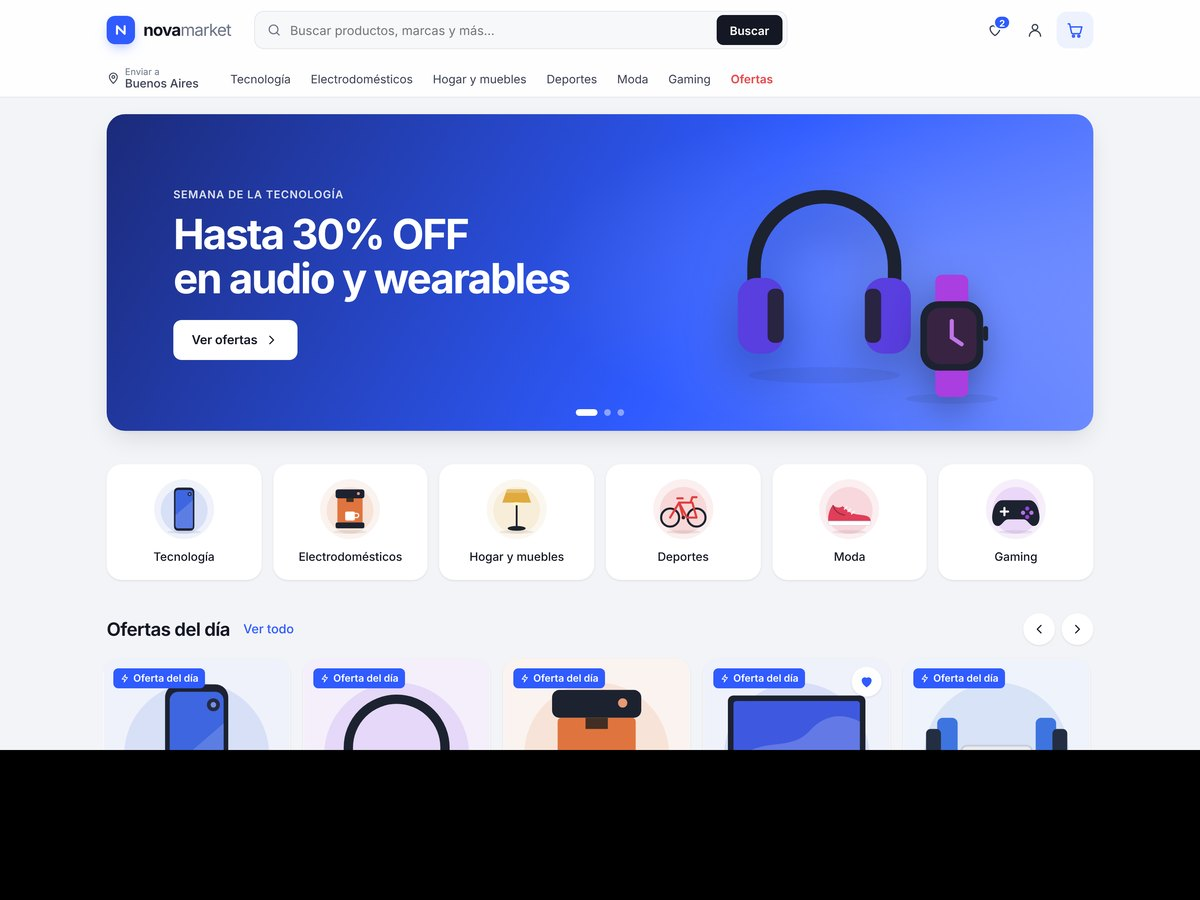
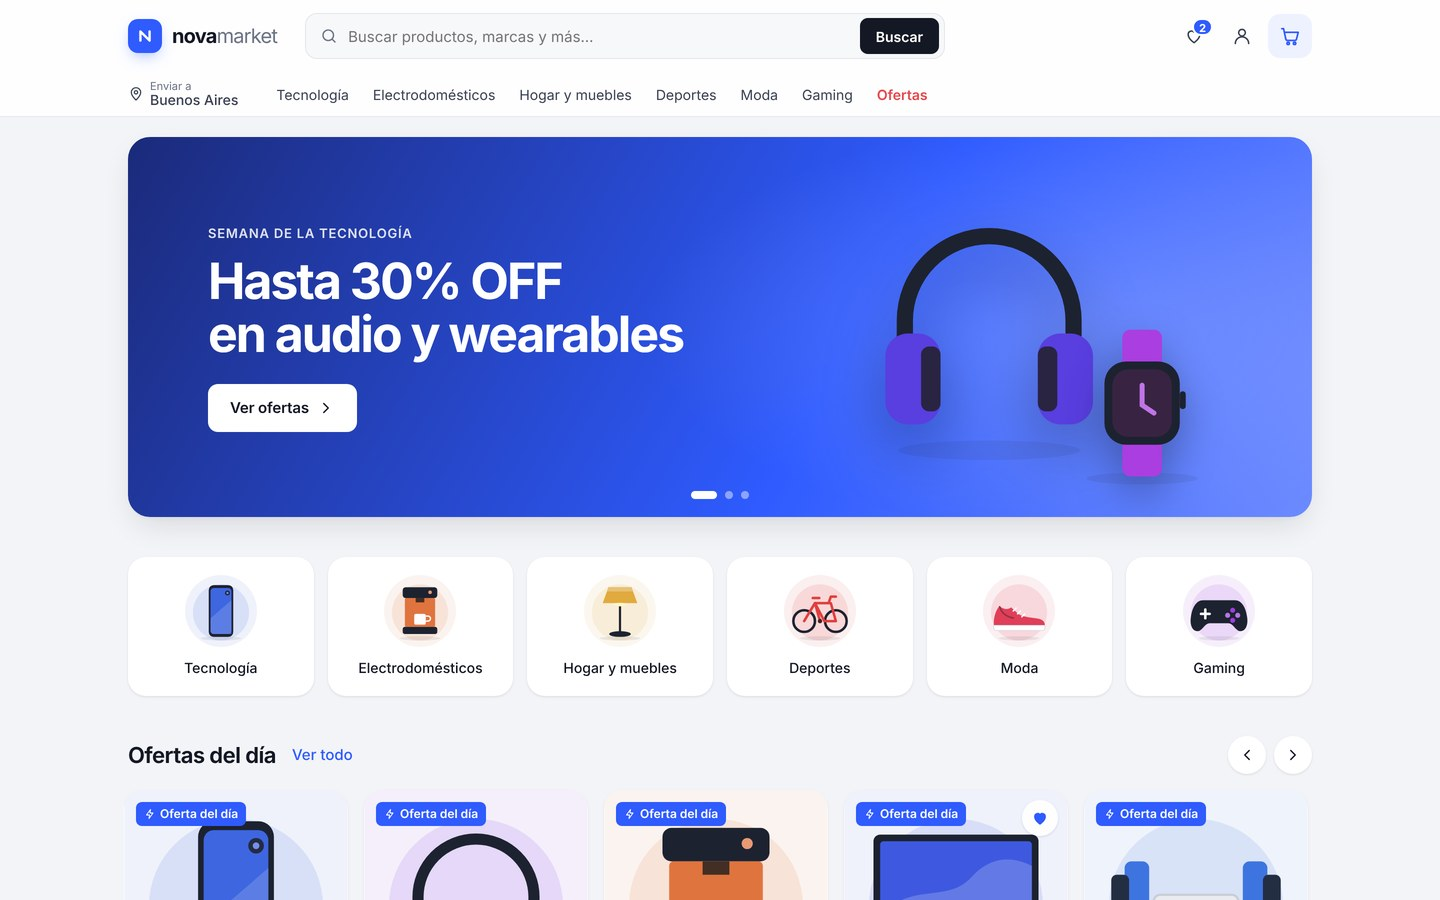
Add Nova Bank, remove Henry Bank and Back to the 90s

diff --git a/src/content.js b/src/content.js
@@ -21,8 +21,7 @@ export const stack = {
 
 const projectsBase = [
   { id: 'novamarket', repo: 'https://github.com/cheloxnz/nova-market', demo: 'https://cheloxnz.github.io/nova-market/', image: '/projects/nova-market.jpg', tech: ['Vue 3', 'Vue Router', 'Pinia', 'Vite'], hue: 228 },
-  { id: 'ecommerce', repo: 'https://github.com/cheloxnz/Ecommerce-Tienda', tech: ['React', 'Redux', 'Node', 'Express', 'Passport', 'PostgreSQL'], hue: 72 },
-  { id: 'wallet', repo: 'https://github.com/cheloxnz/Proyecto-Billetera-HB', tech: ['React Native', 'Redux', 'Node', 'Express', 'PostgreSQL'], hue: 190 },
+  { id: 'novabank', repo: 'https://github.com/cheloxnz/nova-bank', demo: 'https://cheloxnz.github.io/nova-bank/', image: '/projects/nova-bank.jpg', imagePos: 'center', tech: ['Vue 3', 'Pinia', 'PWA', 'Vite'], hue: 250 },
   { id: 'medical', repo: 'https://github.com/cheloxnz/app-medical', tech: ['Vue', 'Vuetify'], hue: 150 },
   { id: 'tsfull', repo: 'https://github.com/cheloxnz/typescript-node-react', tech: ['TypeScript', 'Node', 'Express', 'MongoDB', 'React'], hue: 260 },
   { id: 'restapi', repo: 'https://github.com/cheloxnz/node-js-mysql-rest-api', tech: ['Node', 'Express', 'MySQL'], hue: 20 },
@@ -106,9 +105,8 @@ const es = {
     viewDemo: 'Ver demo',
     more: 'Más proyectos en GitHub',
     items: {
+      novabank: { title: 'Nova Bank', type: 'Fintech · Mobile · PWA', desc: 'App fintech mobile instalable: saldo y movimientos, transferencias en 3 pasos, tarjeta virtual con congelamiento y límites, y estadísticas de gastos.' },
       novamarket: { title: 'Nova Market', type: 'E-commerce · Template', desc: 'Template de marketplace con búsqueda con autocompletado, filtros, ficha de producto, carrito, favoritos y checkout en 3 pasos.' },
-      ecommerce: { title: 'Back to the 90\'s', type: 'E-commerce', desc: 'Tienda online de merchandising noventoso con carrito, autenticación OAuth y panel de administración.' },
-      wallet: { title: 'Henry Bank', type: 'Fintech · Mobile', desc: 'Billetera virtual mobile: cuentas, transferencias y movimientos, con backend propio y autenticación.' },
       medical: { title: 'App Medical', type: 'Health · SPA', desc: 'Aplicación de gestión médica construida con Vue y Vuetify, con foco en una UI clara y usable.' },
       tsfull: { title: 'TS Full Stack', type: 'Full Stack', desc: 'Aplicación full stack tipada de punta a punta: Node, Express, Passport y MongoDB Atlas con frontend en React.' },
       restapi: { title: 'Node MySQL API', type: 'Backend', desc: 'API REST con Node, Express y MySQL: rutas CRUD, manejo de errores y estructura modular.' },
@@ -196,9 +194,8 @@ const en = {
     viewDemo: 'Live demo',
     more: 'More projects on GitHub',
     items: {
+      novabank: { title: 'Nova Bank', type: 'Fintech · Mobile · PWA', desc: 'Installable mobile fintech app: balance and activity, 3-step transfers, virtual card with freeze and limits, and spending insights.' },
       novamarket: { title: 'Nova Market', type: 'E-commerce · Template', desc: 'Marketplace template with autocomplete search, filters, product page, cart, favorites and a 3-step checkout.' },
-      ecommerce: { title: 'Back to the 90\'s', type: 'E-commerce', desc: '90s-themed merch store with cart, OAuth authentication and an admin panel.' },
-      wallet: { title: 'Henry Bank', type: 'Fintech · Mobile', desc: 'Mobile virtual wallet: accounts, transfers and transaction history, with its own backend and auth.' },
       medical: { title: 'App Medical', type: 'Health · SPA', desc: 'Medical management app built with Vue and Vuetify, focused on a clear, usable UI.' },
       tsfull: { title: 'TS Full Stack', type: 'Full Stack', desc: 'End-to-end typed full stack app: Node, Express, Passport and MongoDB Atlas with a React frontend.' },
       restapi: { title: 'Node MySQL API', type: 'Backend', desc: 'REST API with Node, Express and MySQL: CRUD routes, error handling and modular structure.' },

diff --git a/src/components/ProjectsSection.vue b/src/components/ProjectsSection.vue
@@ -18,11 +18,11 @@ import Icon from './Icon.vue'
       </div>
 
       <div class="grid">
-        <article v-for="(p, i) in projects" :key="p.id" class="card" :class="{ featured: p.image }"
+        <article v-for="(p, i) in projects" :key="p.id" class="card" :class="{ featured: p.image, alt: p.image && i % 2 === 1 }"
                  :style="{ '--h': p.hue }" v-reveal="(i % 3) * 90">
           <div class="cover" aria-hidden="true">
             <template v-if="p.image">
-              <img :src="p.image" :alt="''" loading="lazy" width="1200" height="900" />
+              <img :style="{ objectPosition: p.imagePos || 'top' }" :src="p.image" :alt="''" loading="lazy" width="1200" height="900" />
             </template>
             <template v-else>
               <div class="orb" />
@@ -55,7 +55,7 @@ import Icon from './Icon.vue'
 <style scoped>
 .head { display: flex; justify-content: space-between; align-items: flex-end; gap: 2rem; flex-wrap: wrap; margin-bottom: clamp(3rem, 6vw, 5rem); }
 .head .btn svg { width: 18px; height: 18px; }
-.grid { display: grid; grid-template-columns: repeat(3, 1fr); gap: 1rem; }
+.grid { display: grid; grid-template-columns: repeat(4, 1fr); gap: 1rem; }
 
 .card {
   display: flex; flex-direction: column;
@@ -114,18 +114,21 @@ p { margin: 0; color: var(--muted); font-size: 0.95rem; flex: 1; }
 .sub-link:hover, .main-link:hover { color: var(--accent); }
 
 .featured { grid-column: 1 / -1; display: grid; grid-template-columns: 1.5fr 1fr; }
+.featured.alt { grid-template-columns: 1fr 1.5fr; }
+.featured.alt .cover { order: 2; border-right: 0; border-left: 1px solid var(--line); }
 .featured .cover { position: relative; aspect-ratio: auto; min-height: 380px; border-bottom: 0; border-right: 1px solid var(--line); background: #0b0c0f; }
-.featured .cover img { position: absolute; inset: 0; width: 100%; height: 100%; object-fit: cover; object-position: top left; display: block; transition: transform 1s var(--ease); }
+.featured .cover img { position: absolute; inset: 0; width: 100%; height: 100%; object-fit: cover; object-position: center; display: block; transition: transform 1s var(--ease); }
 .featured:hover .cover img { transform: scale(1.03); }
 .featured .no { display: none; }
 .featured .body { padding: clamp(1.5rem, 3vw, 2.75rem); justify-content: center; }
 .f-title { margin: 0.4rem 0 0.2rem; font-size: clamp(1.8rem, 3vw, 2.8rem); font-weight: 500; letter-spacing: -0.04em; line-height: 1.05; }
 .featured p { flex: none; font-size: 1rem; }
 @media (max-width: 900px) {
-  .featured { grid-template-columns: 1fr; }
+  .featured, .featured.alt { grid-template-columns: 1fr; }
+  .featured.alt .cover { order: 0; border-left: 0; }
   .featured .cover { min-height: 0; aspect-ratio: 16 / 10; border-right: 0; border-bottom: 1px solid var(--line); }
 }
 
-@media (max-width: 1080px) { .grid { grid-template-columns: repeat(2, 1fr); } }
+@media (max-width: 1280px) { .grid { grid-template-columns: repeat(2, 1fr); } }
 @media (max-width: 640px) { .grid { grid-template-columns: 1fr; } }
 </style>
